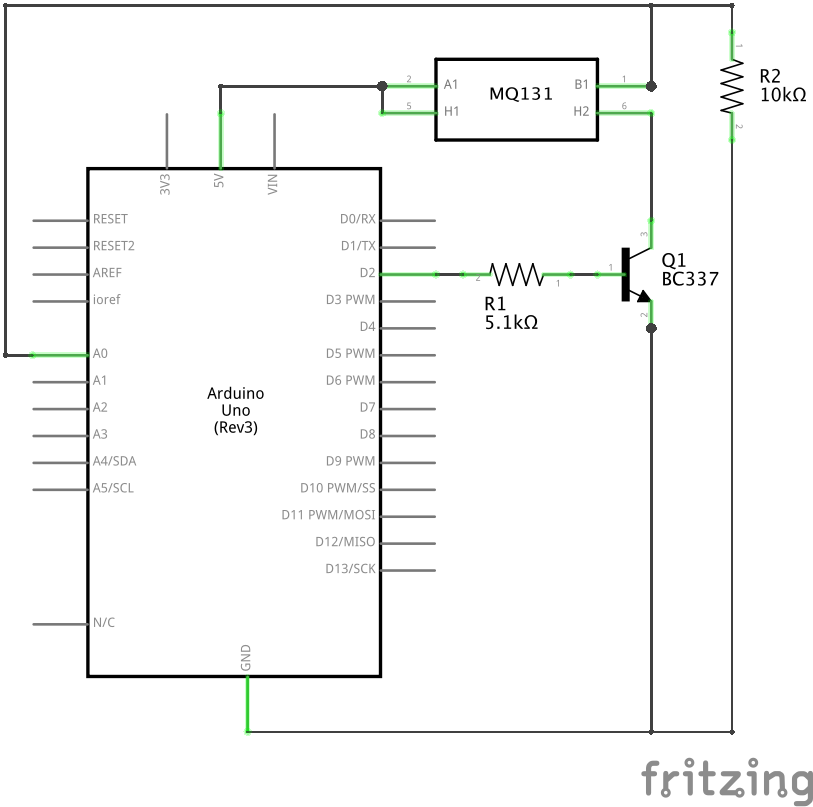
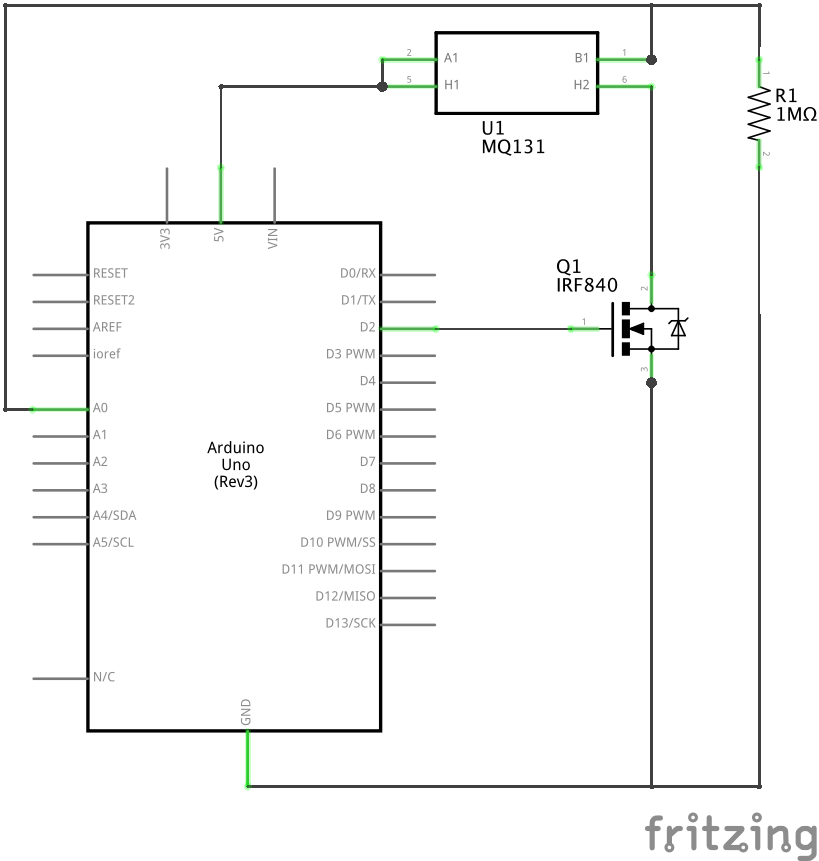
Clean the code, update schemas with Mosfet & 1MOhms RL and add some examples

Changed region(s): [[0.0, 0.0, 1.0, 1.0], [0.246, 0.4647, 0.3383, 0.5886]]

diff --git a/src/MQ131.h b/src/MQ131.h
@@ -12,14 +12,14 @@
 #include <Arduino.h>
 
 // Default values
-#define MQ131_DEFAULT_RL                            10000             // Default load resistance of 10KOhms
-#define MQ131_DEFAULT_STABLE_CYCLE                  20                // Number of cycles with low deviation to consider
+#define MQ131_DEFAULT_RL                            1000000           // Default load resistance of 1MOhms
+#define MQ131_DEFAULT_STABLE_CYCLE                  15                // Number of cycles with low deviation to consider
                                                                       // the calibration as stable and reliable
 #define MQ131_DEFAULT_TEMPERATURE_CELSIUS           20                // Default temperature to correct environmental drift
 #define MQ131_DEFAULT_HUMIDITY_PERCENT              65                // Default humidity to correct environmental drift
-#define MQ131_DEFAULT_LO_CONCENTRATION_R0           110470.60         // Default R0 for low concentration MQ131
-#define MQ131_DEFAULT_LO_CONCENTRATION_TIME2READ    72                // Default time to read before stable signal for low concentration MQ131
-#define MQ131_DEFAULT_HI_CONCENTRATION_R0           385.40            // Default R0 for high concentration MQ131
+#define MQ131_DEFAULT_LO_CONCENTRATION_R0           1917.22           // Default R0 for low concentration MQ131
+#define MQ131_DEFAULT_LO_CONCENTRATION_TIME2READ    80                // Default time to read before stable signal for low concentration MQ131
+#define MQ131_DEFAULT_HI_CONCENTRATION_R0           235.00            // Default R0 for high concentration MQ131
 #define MQ131_DEFAULT_HI_CONCENTRATION_TIME2READ    80                // Default time to read before stable signal for high concentration MQ131
 
 enum MQ131Model {LOW_CONCENTRATION, HIGH_CONCENTRATION};
@@ -28,11 +28,11 @@ enum MQ131Unit {PPM, PPB, MG_M3, UG_M3};
 class MQ131Class {
 	public:
     // Constructor
-    MQ131Class(int _RL);
+    MQ131Class(uint32_t _RL);
     virtual ~MQ131Class();
   
 		// Initialize the driver
-		void begin(int _pinPower, int _pinSensor, MQ131Model _model, int _RL);
+		void begin(uint8_t _pinPower, uint8_t _pinSensor, MQ131Model _model, uint32_t _RL, Stream* _debugStream = NULL);
 
 		// Manage a full cycle with delay() without giving the hand back to
 		// the main loop (delay() function included)
@@ -45,13 +45,13 @@ class MQ131Class {
 		// Define environment
 		// Define the temperature (in Celsius) and humidity (in %) to adjust the
 		// output values based on typical characteristics of the MQ131
-		void setEnv(int tempCels, int humPc);
+		void setEnv(int8_t tempCels, uint8_t humPc);
 
 		// Setup calibration: Time to read
 		// Define the time to read after started the heater
 		// Get function also available to know the value after calibrate()
 		// (the time to read is calculated automatically after calibration)
-		void setTimeToRead(long sec);
+		void setTimeToRead(uint32_t sec);
 		long getTimeToRead();
 
 		// Setup calibration: R0
@@ -86,14 +86,18 @@ class MQ131Class {
 		// Model of MQ131
 		MQ131Model model;
 
+    // Serial console for the debug
+    Stream* debugStream = NULL;
+    bool enableDebug = false;
+
 		// Details about the circuit: pins and load resistance value
-		int pinPower = -1;
-		int pinSensor = -1;
-		long valueRL = -1;
+		uint8_t pinPower = -1;
+		uint8_t pinSensor = -1;
+		uint16_t valueRL = -1;
 
 		// Timer to keep track of the pre-heating
-		long secLastStart = -1;
-		long secToRead = -1;
+		uint32_t secLastStart = -1;
+		uint32_t secToRead = -1;
 
 		// Calibration of R0
 		float valueR0 = -1;
@@ -102,8 +106,8 @@ class MQ131Class {
 		float lastValueRs = -1;
 
 		// Parameters for environment
-		int temperatureCelsuis = MQ131_DEFAULT_TEMPERATURE_CELSIUS;
-		int humidityPercent = MQ131_DEFAULT_HUMIDITY_PERCENT;
+		int8_t temperatureCelsuis = MQ131_DEFAULT_TEMPERATURE_CELSIUS;
+		uint8_t humidityPercent = MQ131_DEFAULT_HUMIDITY_PERCENT;
 };
 
 extern MQ131Class MQ131;

diff --git a/src/MQ131.cpp b/src/MQ131.cpp
@@ -6,12 +6,12 @@
  * Last version available on https://github.com/ostaquet/Arduino-MQ131-driver *
  ******************************************************************************/
 
- #include "MQ131.h"
+#include "MQ131.h"
 
 /**
  * Constructor, nothing special to do
  */
-MQ131Class::MQ131Class(int _RL) {
+MQ131Class::MQ131Class(uint32_t _RL) {
   valueRL = _RL;
 }
 
@@ -24,7 +24,11 @@ MQ131Class::~MQ131Class() {
 /**
  * Init core variables
  */
- void MQ131Class::begin(int _pinPower, int _pinSensor, MQ131Model _model, int _RL) {
+ void MQ131Class::begin(uint8_t _pinPower, uint8_t _pinSensor, MQ131Model _model, uint32_t _RL, Stream* _debugStream) { 
+  // Define if debug is requested
+  enableDebug = _debugStream != NULL;
+  debugStream = _debugStream;
+  
  	// Setup the model
  	model = _model;
 
@@ -84,7 +88,7 @@ MQ131Class::~MQ131Class() {
  		return false;
  	}
  	// OK, check if it's the time to read based on calibration parameters
- 	if(millis()/1000 >= secLastStart + getTimeToRead()) {
+ 	if(millis() / 1000 >= secLastStart + getTimeToRead()) {
  		return true;
  	}
  	return false;
@@ -109,7 +113,7 @@ MQ131Class::~MQ131Class() {
  * Set parameter time to read (for calibration or to recall
  * calibration from previous run)
  */
- void MQ131Class::setTimeToRead(long sec) {
+ void MQ131Class::setTimeToRead(uint32_t sec) {
  	secToRead = sec;
  }
 
@@ -118,7 +122,7 @@ MQ131Class::~MQ131Class() {
  */
  float MQ131Class::readRs() {
  	// Read the value
- 	int valueSensor = analogRead(pinSensor);
+ 	uint16_t valueSensor = analogRead(pinSensor);
  	// Compute the voltage on load resistance (for 5V Arduino)
  	float vRL = ((float)valueSensor) / 1024.0 * 5.0;
  	// Compute the resistance of the sensor (for 5V Arduino)
@@ -129,7 +133,7 @@ MQ131Class::~MQ131Class() {
 /**
  * Set environmental values
  */
- void MQ131Class::setEnv(int tempCels, int humPc) {
+ void MQ131Class::setEnv(int8_t tempCels, uint8_t humPc) {
  	temperatureCelsuis = tempCels;
  	humidityPercent = humPc;
  }
@@ -237,21 +241,34 @@ void MQ131Class::calibrate() {
   // (forget the decimals)
   float lastRsValue = 0;
   // Count how many time we keep the same Rs value in a row
-  int countReadInRow = 0;
+  uint8_t countReadInRow = 0;
   // Count how long we have to wait to have consistent value
-  int count = 0;
+  uint8_t count = 0;
+
+  // Get some info
+  if(enableDebug) {
+    debugStream->println(F("MQ131 : Starting calibration..."));
+    debugStream->println(F("MQ131 : Enable heater"));
+    debugStream->print(F("MQ131 : Stable cycles required : "));
+    debugStream->print(MQ131_DEFAULT_STABLE_CYCLE);
+    debugStream->println(F(" (compilation parameter MQ131_DEFAULT_STABLE_CYCLE)"));
+  }
 
   // Start heater
   startHeater();
 
-  int timeToReadConsistency = MQ131_DEFAULT_STABLE_CYCLE;
+  uint8_t timeToReadConsistency = MQ131_DEFAULT_STABLE_CYCLE;
 
   while(countReadInRow <= timeToReadConsistency) {
     float value = readRs();
 
-    Serial.println(value);
+    if(enableDebug) {
+      debugStream->print(F("MQ131 : Rs read = "));
+      debugStream->print((uint32_t)value);
+      debugStream->println(F(" Ohms"));
+    }
     
-    if((int)lastRsValue != (int)value) {
+    if((uint32_t)lastRsValue != (uint32_t)value) {
       lastRsValue = value;
       countReadInRow = 0;
     } else {
@@ -259,6 +276,13 @@ void MQ131Class::calibrate() {
     }
     count++;
     delay(1000);
+  }
+
+  if(enableDebug) {
+    debugStream->print(F("MQ131 : Stabilisation after "));
+    debugStream->print(count);
+    debugStream->println(F(" seconds"));
+    debugStream->println(F("MQ131 : Stop heater and store calibration parameters"));
   }
 
   // Stop heater

diff --git a/README.md b/README.md
@@ -22,9 +22,13 @@ Arduino library for ozone gas sensor MQ131
  7. Enjoy!
  
 ## Circuit
- * Heater is controlled by NPN transistor via the control pin (on schema pin 2, yellow connector)
- * Result of the sensor is read through analog with RL of 10kΩ (on schema pin A0, green connector)
+ * Heater is controlled by MOSFET N-channel via the control pin (on schema pin 2, yellow connector)
+ * Result of the sensor is read through analog with RL of 1MΩ (on schema pin A0, green connector)
  
+Remarks:
+ * The MOSFET is a IRF840 but any N-channel MOSFET that can be controlled by 5V is OK.
+ * The load resistance (RL) can be different than 1MΩ (tested also with 10kΩ) but don't forget to calibrate the R0 and time to heat.
+
 ![Breadboard schematics](extras/img/MQ131_bb.png)
 
 ![MQ131 pinout](extras/img/MQ131_pinout.png)
@@ -42,8 +46,8 @@ void setup() {
   // - Heater control on pin 2
   // - Sensor analog read on pin A0
   // - Model LOW_CONCENTRATION
-  // - Load resistance RL of 10KOhms (10000 Ohms)
-  MQ131.begin(2,A0, LOW_CONCENTRATION, 10000);  
+  // - Load resistance RL of 1MOhms (1000000 Ohms)
+  MQ131.begin(2,A0, LOW_CONCENTRATION, 1000000);  
 
   Serial.println("Calibration in progress...");
   
@@ -82,13 +86,13 @@ The result gives us:
 ```
 Calibration in progress...
 Calibration done!
-R0 = 110470.60 Ohms
-Time to heat = 72 s
+R0 = 1917.22 Ohms
+Time to heat = 80 s
 Sampling...
 Concentration O3 : 0.01 ppm
-Concentration O3 : 11.90 ppb
-Concentration O3 : 0.03 mg/m3
-Concentration O3 : 25.14 ug/m3
+Concentration O3 : 7.95 ppb
+Concentration O3 : 0.02 mg/m3
+Concentration O3 : 16.80 ug/m3
 ```
 
 ## Usage
@@ -96,12 +100,14 @@ The driver has to be initialized with 4 parameters:
  * Pin to control the heater power (example: 2)
  * Pin to measure the analog output (example: A0)
  * Model of sensor `LOW_CONCENTRATION` or `HIGH_CONCENTRATION` (example: `LOW_CONCENTRATION`)
- * Value of load resistance in Ohms (example: 10000 Ohms)
+ * Value of load resistance in Ohms (example: 1000000 Ohms)
 ```
 MQ131.begin(2,A0, LOW_CONCENTRATION, 10000);
 ```
 
-Before using the driver, it's better to calibrate it. You can do that through the function `calibrate()`. The best is to calibrate the sensor at 20°C and 65% of humidity in clean fresh air. The calibration adjusts 2 parameters:
+Before using the driver, it's better to calibrate it. You can do that through the function `calibrate()`. The best is to calibrate the sensor at 20°C and 65% of humidity in clean fresh air. If you need some log on the console, mention the serial in the function `begin()` (example by using the standard Serial: `MQ131.begin(2,A0, LOW_CONCENTRATION, 10000, (Stream *)&Serial);`).
+
+The calibration adjusts 2 parameters:
  * The value of the base resistance (R0)
  * The time required to heat the sensor and get consistent readings (Time to read)
 ```
